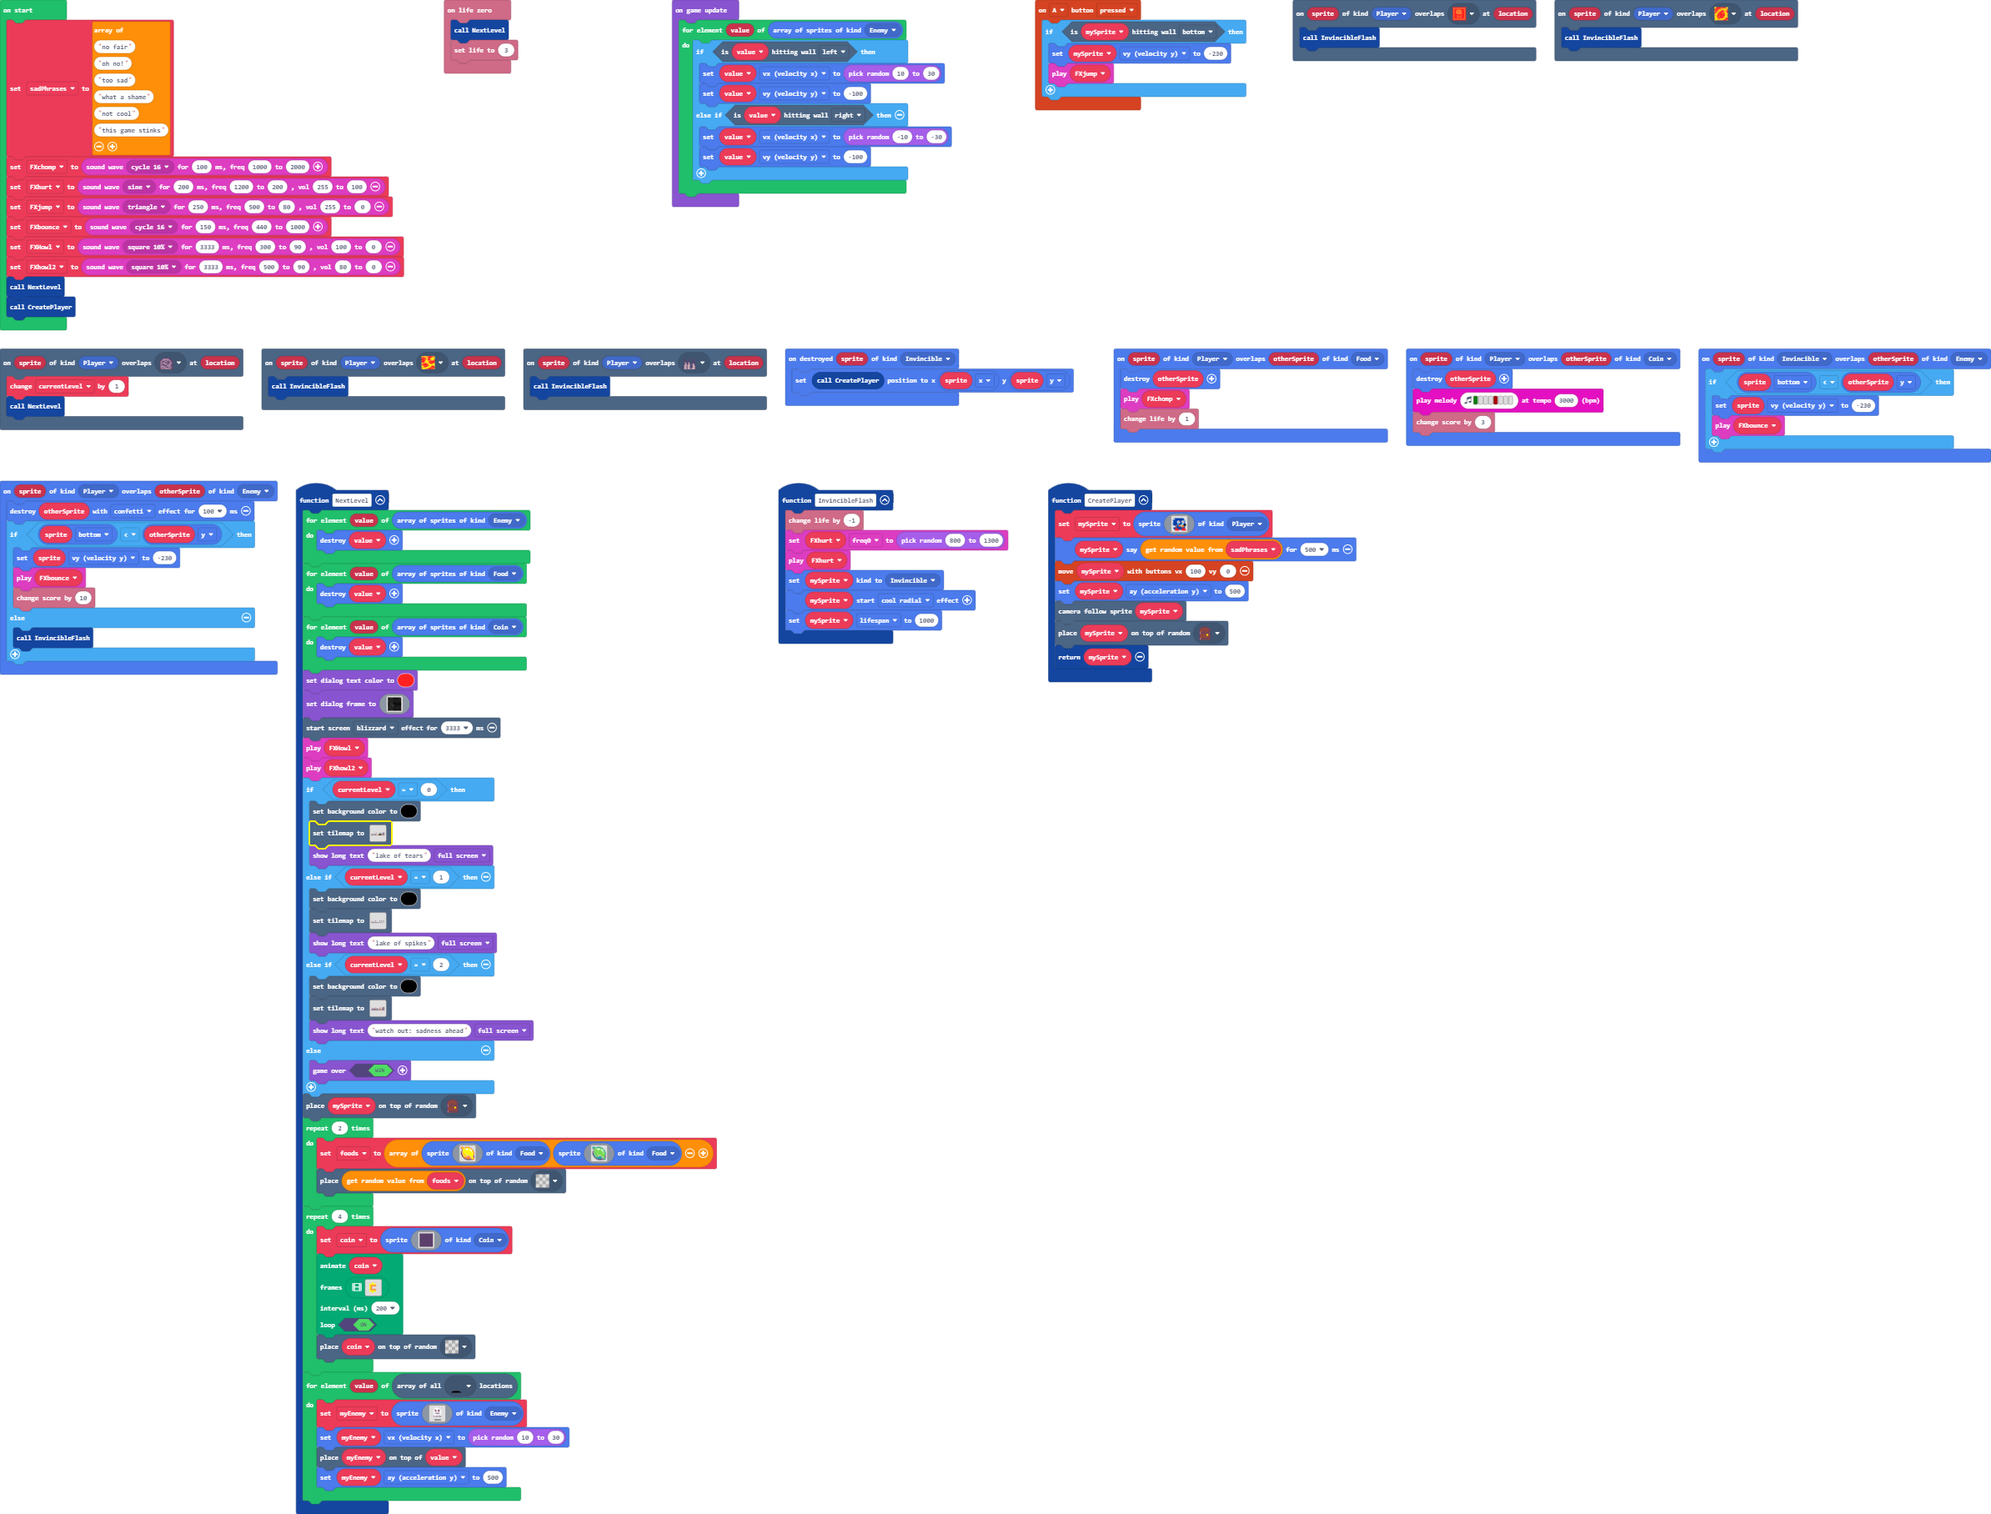
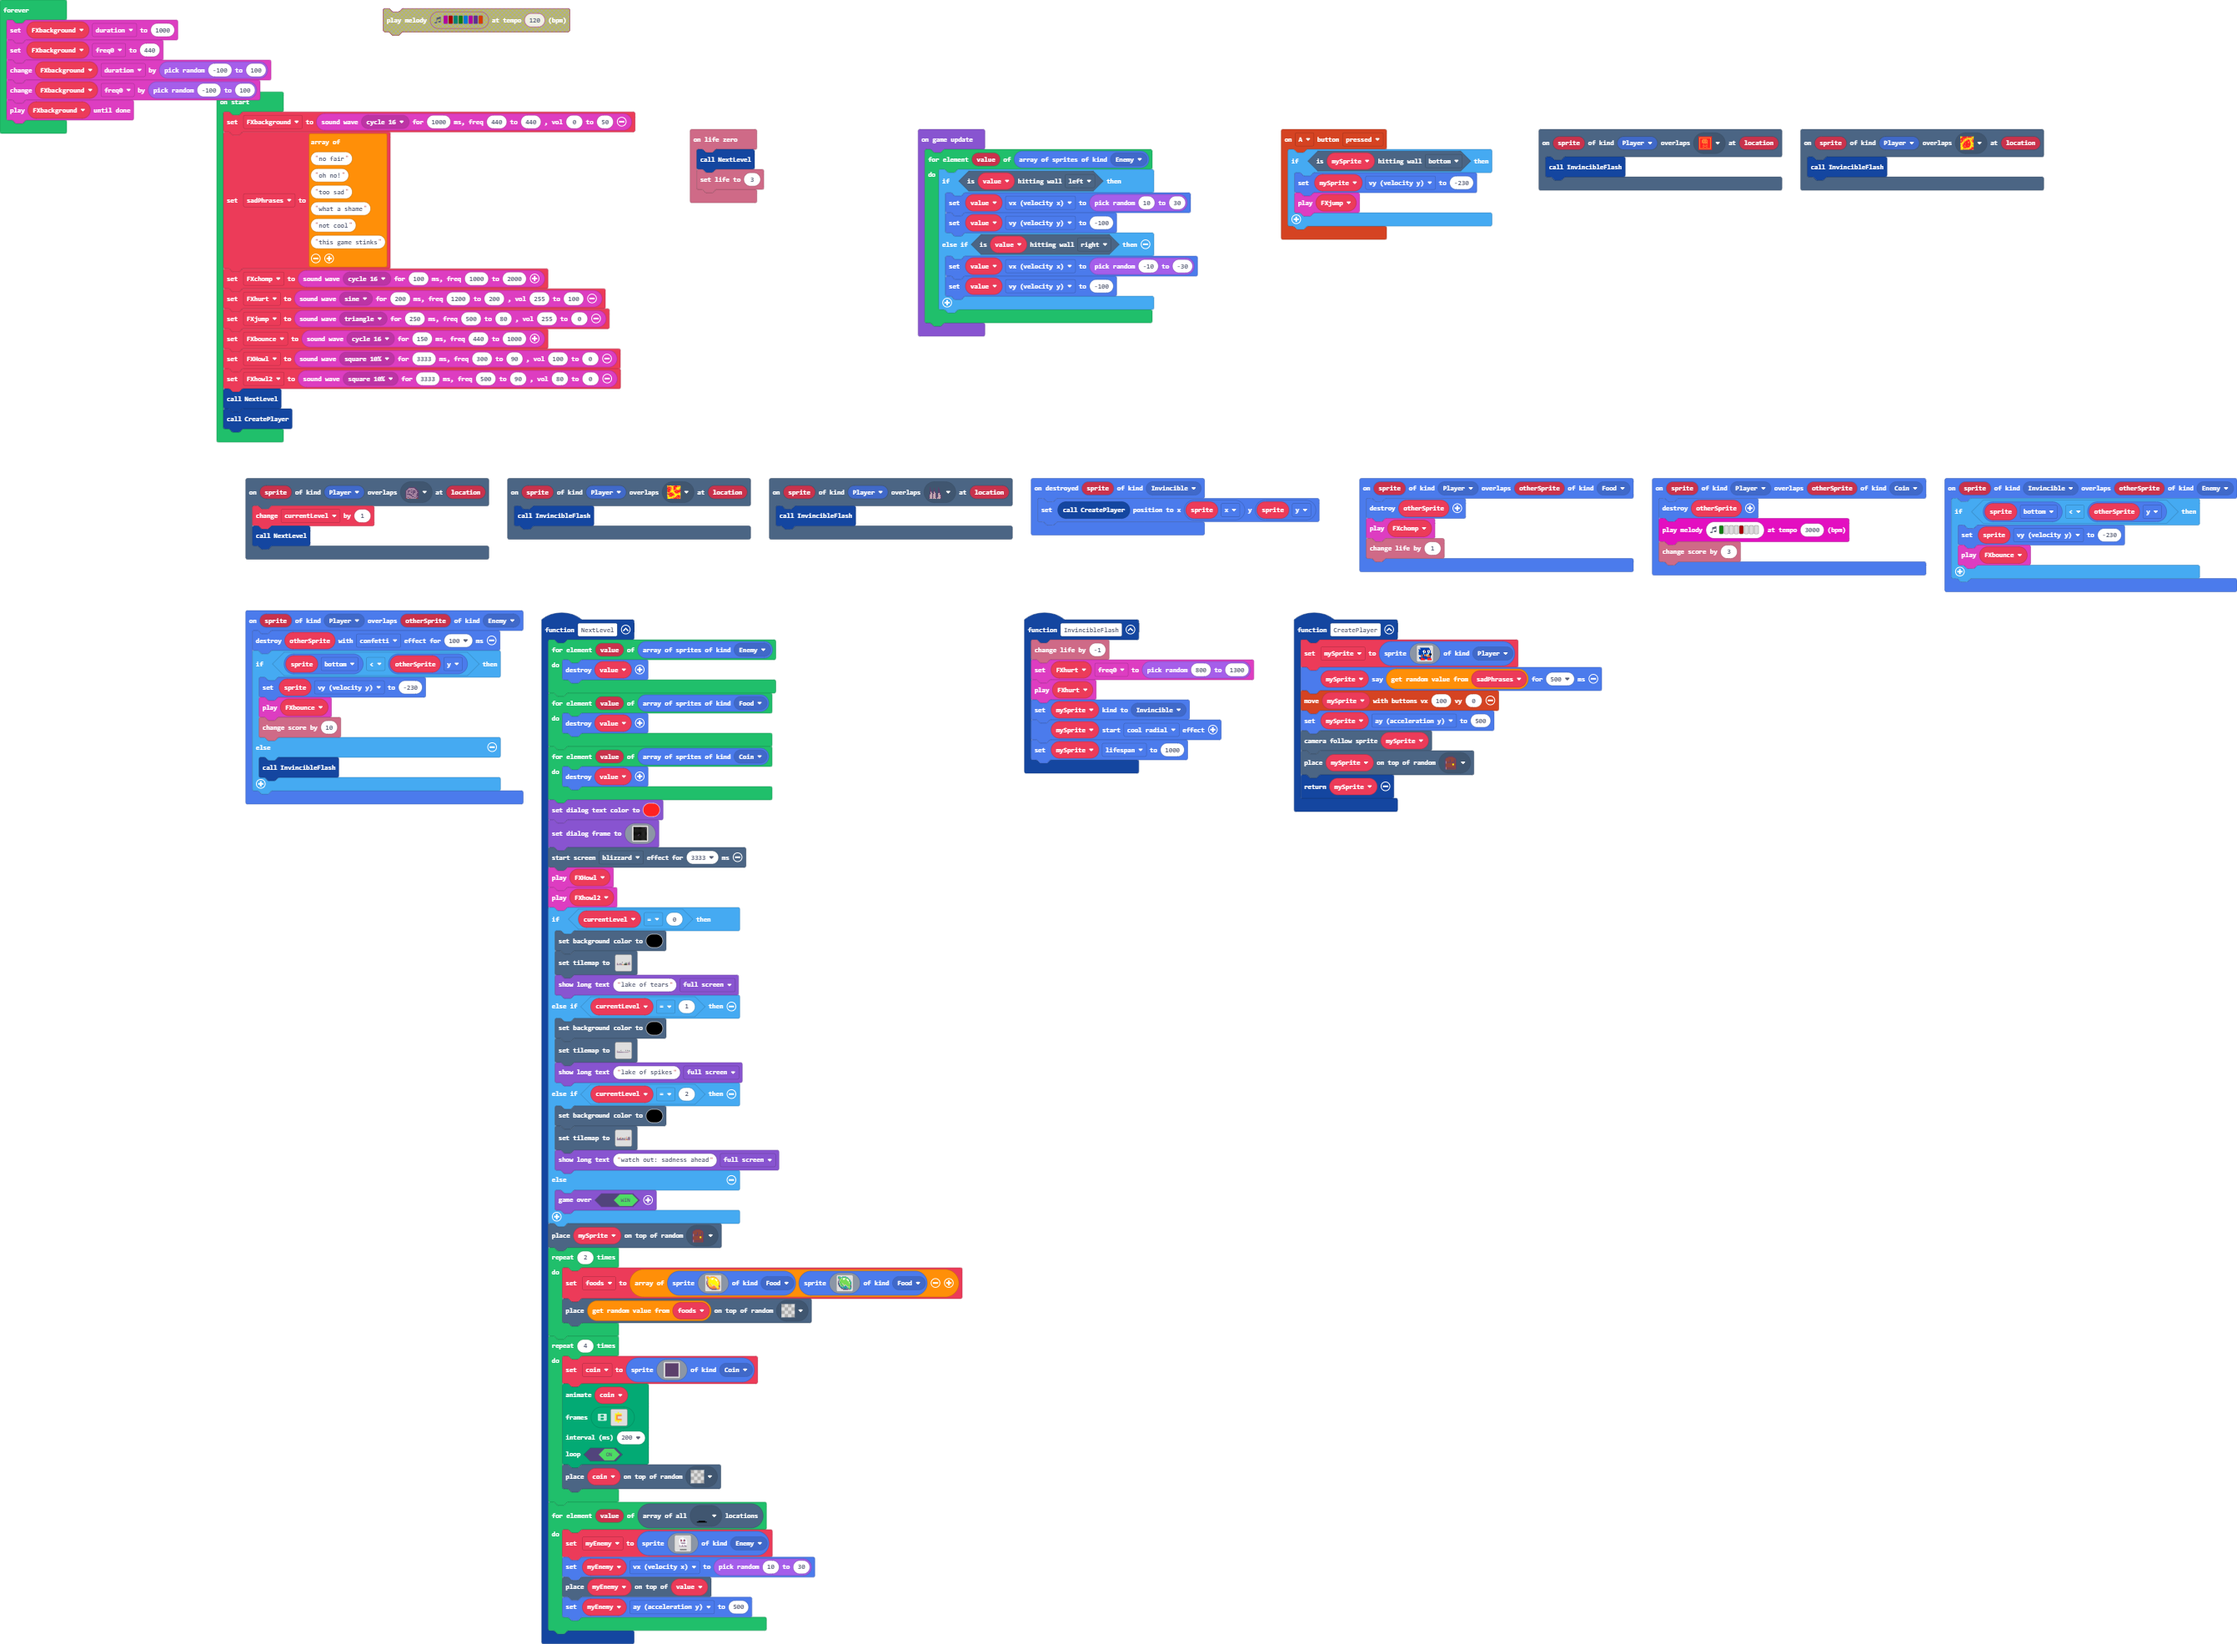
Update main.blocks, main.ts

Changed region(s): [[0.0, 0.0, 1.0, 1.0]]

diff --git a/main.ts b/main.ts
@@ -252,6 +252,7 @@ let FXjump: SoundBuffer = null
 let FXhurt: SoundBuffer = null
 let FXchomp: SoundBuffer = null
 let sadPhrases: string[] = []
+let FXbackground = soundEffects.createSound(soundEffects.waveNumber(WaveType.Cycle16), 1000, 440, 440, 0, 50)
 sadPhrases = [
 "no fair",
 "oh no!",
@@ -278,4 +279,11 @@ game.onUpdate(function () {
             value.vy = -100
         }
     }
+})
+forever(function () {
+    FXbackground.duration = 1000
+    FXbackground.freq0 = 440
+    FXbackground.duration += randint(-100, 100)
+    FXbackground.freq0 += randint(-100, 100)
+    FXbackground.playUntilDone()
 })
